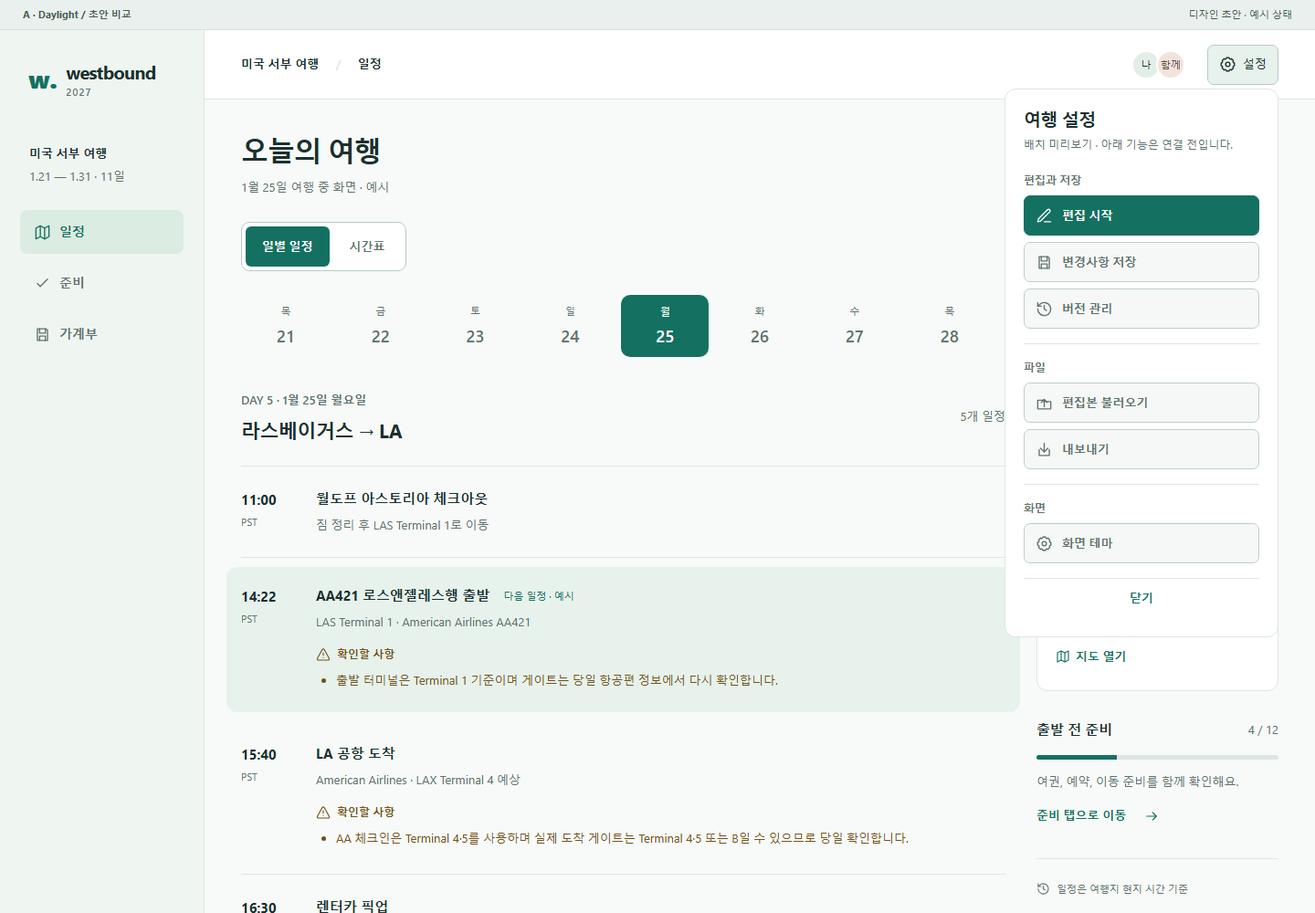
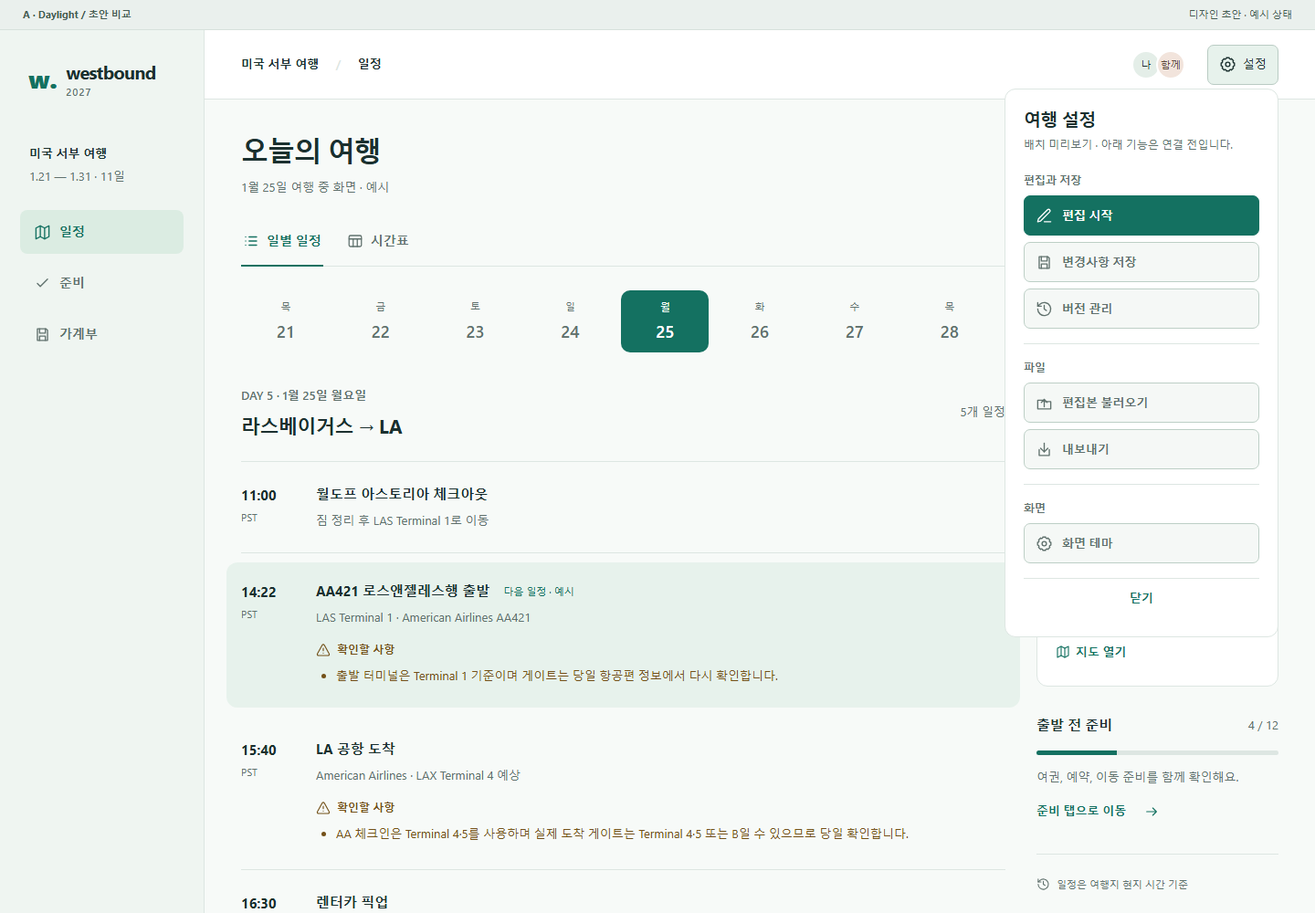
fix: polish Daylight navigation and expense categories

diff --git a/docs/ui-concepts/concepts.js b/docs/ui-concepts/concepts.js
@@ -53,14 +53,15 @@ function prep() {
 const expenses=[{title:'공항에서 숙소 이동',category:'교통',amount:42,date:'1.21'},{title:'도착 첫날 저녁',category:'식비',amount:56,date:'1.21'},{title:'커피 두 잔',category:'식비',amount:12,date:'1.22'}];
 function ledger() {
   const shown=expenses.filter(e=>state.expenseFilter==='all'||e.category===state.expenseFilter);
-  return `<div class="subpage">${heading('가계부', '화면 비교를 위한 가상 지출 3건 · 실제 지출이 아닙니다.')}<div class="ledger-summary"><div><span>예시 지출 합계</span><strong>$110<span>.00</span></strong><p>₩159,500 · 1 USD = 1,450 KRW</p></div><div class="ledger-note"><span>수동 환율</span><strong>1,450 KRW</strong><small>예산 미설정</small></div></div><div class="expense-heading"><h2>지출 내역</h2><label>카테고리 <select id="expense-filter"><option value="all" ${state.expenseFilter==='all'?'selected':''}>전체</option><option ${state.expenseFilter==='식비'?'selected':''}>식비</option><option ${state.expenseFilter==='교통'?'selected':''}>교통</option><option ${state.expenseFilter==='숙박'?'selected':''}>숙박</option></select></label></div><div class="expense-table"><div class="expense-row table-head"><span>날짜</span><span>항목</span><span>카테고리</span><span>금액</span></div>${shown.length?shown.map(e=>`<div class="expense-row"><span>${e.date}</span><strong>${e.title}</strong><span>${e.category}</span><strong>$${e.amount.toFixed(2)}</strong></div>`).join(''):'<div class="empty"><h3>숙박 지출이 없어요</h3><p>다른 카테고리의 예시 내역을 확인해 보세요.</p><button data-reset-filter class="primary-button">전체 내역 보기</button></div>'}</div><p class="footnote">실제 서비스에서는 편집자 확인 후 지출을 추가하고, 저장 시 함께 보는 가계부에 반영합니다.</p></div>`;
+  const rows=shown.map(e=>variant==='a'?daylightExpenseRow(e):`<div class="expense-row"><span>${e.date}</span><strong>${e.title}</strong><span>${e.category}</span><strong>$${e.amount.toFixed(2)}</strong></div>`).join('');
+  return `<div class="subpage">${heading('가계부', '화면 비교를 위한 가상 지출 3건 · 실제 지출이 아닙니다.')}<div class="ledger-summary"><div><span>예시 지출 합계</span><strong>$110<span>.00</span></strong><p>₩159,500 · 1 USD = 1,450 KRW</p></div><div class="ledger-note"><span>수동 환율</span><strong>1,450 KRW</strong><small>예산 미설정</small></div></div><div class="expense-heading"><h2>지출 내역</h2><label>카테고리 <select id="expense-filter"><option value="all" ${state.expenseFilter==='all'?'selected':''}>전체</option><option ${state.expenseFilter==='식비'?'selected':''}>식비</option><option ${state.expenseFilter==='교통'?'selected':''}>교통</option><option ${state.expenseFilter==='숙박'?'selected':''}>숙박</option></select></label></div><div class="expense-table"><div class="expense-row table-head"><span>날짜</span><span>항목</span><span>카테고리</span><span>금액</span></div>${shown.length?rows:'<div class="empty"><h3>숙박 지출이 없어요</h3><p>다른 카테고리의 예시 내역을 확인해 보세요.</p><button data-reset-filter class="primary-button">전체 내역 보기</button></div>'}</div><p class="footnote">실제 서비스에서는 편집자 확인 후 지출을 추가하고, 저장 시 함께 보는 가계부에 반영합니다.</p></div>`;
 }
 function render() {
   const content=state.tab==='prep'?prep():state.tab==='ledger'?ledger():({a:scheduleA,b:scheduleB,c:scheduleC}[variant])();
   const brand=`<a href="${variant}.html" class="brand" aria-label="WESTBOUND 처음 화면"><span class="brand-mark">w.</span><span>westbound<span class="brand-year">2027</span></span></a>`;
   const rail=variant==='a'?`<aside class="side-rail">${brand}<div class="rail-trip"><strong>미국 서부 여행</strong><span>1.21 — 1.31 · 11일</span></div>${nav()}<div class="rail-bottom">${clocks()}<span class="quiet">시각은 예시입니다</span></div></aside>`:'';
   document.getElementById('app').innerHTML=`${notice()}<div class="shell">${rail}<div class="workspace"><header class="app-header">${variant!=='a'?brand:'<span class="header-trip">미국 서부 여행 <span>/</span> '+({schedule:'일정',prep:'준비',ledger:'가계부'}[state.tab])+'</span>'}${variant!=='a'?nav():''}<div class="header-actions"><span class="members" aria-label="여행 참가자 두 명"><i>나</i><i>함께</i></span>${more()}</div></header><main id="main">${content}</main><div class="mobile-nav">${nav('mobile-nav-inner')}</div></div></div><div class="sr-only" role="status" id="feedback"></div>`;
-  document.querySelectorAll('[data-tab]').forEach(button=>button.addEventListener('click',()=>{state.tab=button.dataset.tab;render();document.querySelector('h1')?.setAttribute('tabindex','-1');document.querySelector('h1')?.focus({preventScroll:true});}));
+  document.querySelectorAll('[data-tab]').forEach(button=>button.addEventListener('click',()=>{state.tab=button.dataset.tab;render();document.querySelector('h1')?.setAttribute('tabindex','-1');document.querySelector('h1')?.focus({preventScroll:true});if(variant==='a'&&state.tab==='prep')window.scrollTo({top:0,left:0,behavior:'instant'});}));
   document.querySelectorAll('[data-day]').forEach(button=>button.addEventListener('click',()=>{state.day=Number(button.dataset.day);render();document.querySelector(`[data-day="${state.day}"]`)?.focus({preventScroll:true});}));
   document.querySelectorAll('[data-check]').forEach(input=>input.addEventListener('change',()=>{const key=Number(input.dataset.check);input.checked?state.checked.add(key):state.checked.delete(key);document.getElementById('prep-count').textContent=`${state.checked.size} / ${trip.prep.length}`;document.getElementById('prep-progress').value=state.checked.size;document.getElementById('feedback').textContent='초안에서만 변경되었습니다.';}));
   document.getElementById('expense-filter')?.addEventListener('change',event=>{state.expenseFilter=event.target.value;render();document.getElementById('expense-filter').focus();});

diff --git a/ui-preview/concepts.js b/ui-preview/concepts.js
@@ -53,14 +53,15 @@ function prep() {
 const expenses=[{title:'공항에서 숙소 이동',category:'교통',amount:42,date:'1.21'},{title:'도착 첫날 저녁',category:'식비',amount:56,date:'1.21'},{title:'커피 두 잔',category:'식비',amount:12,date:'1.22'}];
 function ledger() {
   const shown=expenses.filter(e=>state.expenseFilter==='all'||e.category===state.expenseFilter);
-  return `<div class="subpage">${heading('가계부', '화면 비교를 위한 가상 지출 3건 · 실제 지출이 아닙니다.')}<div class="ledger-summary"><div><span>예시 지출 합계</span><strong>$110<span>.00</span></strong><p>₩159,500 · 1 USD = 1,450 KRW</p></div><div class="ledger-note"><span>수동 환율</span><strong>1,450 KRW</strong><small>예산 미설정</small></div></div><div class="expense-heading"><h2>지출 내역</h2><label>카테고리 <select id="expense-filter"><option value="all" ${state.expenseFilter==='all'?'selected':''}>전체</option><option ${state.expenseFilter==='식비'?'selected':''}>식비</option><option ${state.expenseFilter==='교통'?'selected':''}>교통</option><option ${state.expenseFilter==='숙박'?'selected':''}>숙박</option></select></label></div><div class="expense-table"><div class="expense-row table-head"><span>날짜</span><span>항목</span><span>카테고리</span><span>금액</span></div>${shown.length?shown.map(e=>`<div class="expense-row"><span>${e.date}</span><strong>${e.title}</strong><span>${e.category}</span><strong>$${e.amount.toFixed(2)}</strong></div>`).join(''):'<div class="empty"><h3>숙박 지출이 없어요</h3><p>다른 카테고리의 예시 내역을 확인해 보세요.</p><button data-reset-filter class="primary-button">전체 내역 보기</button></div>'}</div><p class="footnote">실제 서비스에서는 편집자 확인 후 지출을 추가하고, 저장 시 함께 보는 가계부에 반영합니다.</p></div>`;
+  const rows=shown.map(e=>variant==='a'?daylightExpenseRow(e):`<div class="expense-row"><span>${e.date}</span><strong>${e.title}</strong><span>${e.category}</span><strong>$${e.amount.toFixed(2)}</strong></div>`).join('');
+  return `<div class="subpage">${heading('가계부', '화면 비교를 위한 가상 지출 3건 · 실제 지출이 아닙니다.')}<div class="ledger-summary"><div><span>예시 지출 합계</span><strong>$110<span>.00</span></strong><p>₩159,500 · 1 USD = 1,450 KRW</p></div><div class="ledger-note"><span>수동 환율</span><strong>1,450 KRW</strong><small>예산 미설정</small></div></div><div class="expense-heading"><h2>지출 내역</h2><label>카테고리 <select id="expense-filter"><option value="all" ${state.expenseFilter==='all'?'selected':''}>전체</option><option ${state.expenseFilter==='식비'?'selected':''}>식비</option><option ${state.expenseFilter==='교통'?'selected':''}>교통</option><option ${state.expenseFilter==='숙박'?'selected':''}>숙박</option></select></label></div><div class="expense-table"><div class="expense-row table-head"><span>날짜</span><span>항목</span><span>카테고리</span><span>금액</span></div>${shown.length?rows:'<div class="empty"><h3>숙박 지출이 없어요</h3><p>다른 카테고리의 예시 내역을 확인해 보세요.</p><button data-reset-filter class="primary-button">전체 내역 보기</button></div>'}</div><p class="footnote">실제 서비스에서는 편집자 확인 후 지출을 추가하고, 저장 시 함께 보는 가계부에 반영합니다.</p></div>`;
 }
 function render() {
   const content=state.tab==='prep'?prep():state.tab==='ledger'?ledger():({a:scheduleA,b:scheduleB,c:scheduleC}[variant])();
   const brand=`<a href="${variant}.html" class="brand" aria-label="WESTBOUND 처음 화면"><span class="brand-mark">w.</span><span>westbound<span class="brand-year">2027</span></span></a>`;
   const rail=variant==='a'?`<aside class="side-rail">${brand}<div class="rail-trip"><strong>미국 서부 여행</strong><span>1.21 — 1.31 · 11일</span></div>${nav()}<div class="rail-bottom">${clocks()}<span class="quiet">시각은 예시입니다</span></div></aside>`:'';
   document.getElementById('app').innerHTML=`${notice()}<div class="shell">${rail}<div class="workspace"><header class="app-header">${variant!=='a'?brand:'<span class="header-trip">미국 서부 여행 <span>/</span> '+({schedule:'일정',prep:'준비',ledger:'가계부'}[state.tab])+'</span>'}${variant!=='a'?nav():''}<div class="header-actions"><span class="members" aria-label="여행 참가자 두 명"><i>나</i><i>함께</i></span>${more()}</div></header><main id="main">${content}</main><div class="mobile-nav">${nav('mobile-nav-inner')}</div></div></div><div class="sr-only" role="status" id="feedback"></div>`;
-  document.querySelectorAll('[data-tab]').forEach(button=>button.addEventListener('click',()=>{state.tab=button.dataset.tab;render();document.querySelector('h1')?.setAttribute('tabindex','-1');document.querySelector('h1')?.focus({preventScroll:true});}));
+  document.querySelectorAll('[data-tab]').forEach(button=>button.addEventListener('click',()=>{state.tab=button.dataset.tab;render();document.querySelector('h1')?.setAttribute('tabindex','-1');document.querySelector('h1')?.focus({preventScroll:true});if(variant==='a'&&state.tab==='prep')window.scrollTo({top:0,left:0,behavior:'instant'});}));
   document.querySelectorAll('[data-day]').forEach(button=>button.addEventListener('click',()=>{state.day=Number(button.dataset.day);render();document.querySelector(`[data-day="${state.day}"]`)?.focus({preventScroll:true});}));
   document.querySelectorAll('[data-check]').forEach(input=>input.addEventListener('change',()=>{const key=Number(input.dataset.check);input.checked?state.checked.add(key):state.checked.delete(key);document.getElementById('prep-count').textContent=`${state.checked.size} / ${trip.prep.length}`;document.getElementById('prep-progress').value=state.checked.size;document.getElementById('feedback').textContent='초안에서만 변경되었습니다.';}));
   document.getElementById('expense-filter')?.addEventListener('change',event=>{state.expenseFilter=event.target.value;render();document.getElementById('expense-filter').focus();});

diff --git a/docs/ui-concepts/daylight.css b/docs/ui-concepts/daylight.css
@@ -16,10 +16,22 @@
 .tool-action:disabled{cursor:not-allowed;color:var(--muted);background:#f5f8f6}
 .tool-action.tool-primary:disabled{background:var(--accent);border-color:var(--accent);color:white}
 .tools-close{min-height:44px;width:100%;margin:16px 0 0!important;border-top:1px solid var(--line);color:var(--accent);font-weight:600}
-.schedule-toolbar{margin-bottom:24px;display:flex;align-items:center;justify-content:space-between}
-.view-switch{display:inline-flex;gap:4px;padding:4px;border:1px solid #b9cbc3;border-radius:9px;background:var(--surface)}
-.view-switch button{min-height:44px;padding:8px 18px;border-radius:6px;font-size:13px;font-weight:600;color:var(--muted)}
-.view-switch button[aria-pressed=true]{background:var(--accent);color:white}
+.schedule-toolbar{margin-bottom:24px;border-bottom:1px solid var(--line)}
+.schedule-modes{display:flex;gap:24px}
+.schedule-modes button{position:relative;display:inline-flex;align-items:center;gap:8px;min-height:48px;padding:8px 2px 14px;font-size:14px;font-weight:600;color:var(--muted)}
+.schedule-modes button[aria-pressed=true]{color:var(--accent)}
+.schedule-modes button[aria-pressed=true]::after{content:"";position:absolute;left:0;right:0;bottom:-1px;height:2px;background:var(--accent)}
+.schedule-modes button:hover{background:transparent;color:var(--accent)}
+.schedule-modes button:focus-visible{outline-offset:2px;border-radius:3px}
+.schedule-modes .icon{width:18px;height:18px}
+.view-switch{display:inline-flex;gap:2px;padding:3px;border-radius:8px;background:#e8efeb;flex:none}
+.view-switch button{min-height:44px;min-width:66px;padding:8px 16px;border:1px solid transparent;border-radius:5px;font-size:13px;font-weight:600;color:#536a60}
+.view-switch button:hover{color:var(--accent);background:#dce8e0}
+.view-switch button[aria-pressed=true]{background:var(--surface);border-color:#c1d2c8;color:var(--ink)}
+.view-switch button:focus-visible{outline-offset:1px}
+.daylight-expense .expense-title{font-size:14px;overflow-wrap:anywhere}
+.daylight-expense .expense-amount{font-size:14px;white-space:nowrap}
+.category-label{display:inline-flex;align-items:center;padding:3px 9px;border-radius:5px;font-size:12px;font-weight:600;line-height:1.6;background:var(--event-bg);color:var(--event-ink)}
 .dt-toolbar{display:flex;align-items:center;justify-content:space-between;gap:20px;margin-bottom:20px}
 .dt-toolbar h2{font-size:20px}
 .dt-toolbar p{font-size:12px;margin-top:6px}
@@ -75,3 +87,4 @@
 @media(max-width:1100px){.dt-all .dt-grid{grid-template-columns:48px repeat(var(--days),minmax(86px,1fr))}}
 @media(max-width:800px){.dt-all .dt-grid{grid-template-columns:48px repeat(var(--days),180px);width:max-content;min-width:100%}.dt-all .dt-event{padding:7px}.dt-all .dt-event strong{font-size:12px}.dt-all .dt-event time{font-size:11px}.dt-scroll-hint{display:flex;gap:8px;justify-content:flex-end;align-items:center;font-size:12px;margin-bottom:10px}.dt-scroll-hint:has(+.dt-single){display:none}.dt-all{max-height:65vh}}
 @media(max-width:640px){.daylight-tools>summary span{display:inline}.daylight-tools .more-menu{right:0}.header-actions{gap:8px}.schedule-toolbar{margin-bottom:20px}.dt-toolbar{align-items:flex-start;flex-wrap:wrap;gap:14px}.dt-toolbar h2{font-size:18px}.event-warnings{font-size:13px}.dt-legend{gap:10px;font-size:11px}#daylight-detail{padding:20px}.detail-heading h2{font-size:19px}}
+@media(max-width:640px){.daylight-expense{grid-template-columns:38px minmax(0,1fr) 70px;gap:6px 10px;align-items:start}.daylight-expense .expense-date{grid-column:1;grid-row:1;padding-top:2px;font-size:12px}.daylight-expense .expense-title{grid-column:2;grid-row:1;line-height:1.6}.daylight-expense>.expense-category{display:block;grid-column:2;grid-row:2}.daylight-expense .expense-amount{grid-column:3;grid-row:1;line-height:1.6}.daylight-expense .category-label{font-size:12px;padding:2px 7px}.dt-toolbar .view-switch{margin-left:auto}.view-switch button{min-width:60px;padding:8px 12px}}

diff --git a/ui-preview/daylight.css b/ui-preview/daylight.css
@@ -16,10 +16,22 @@
 .tool-action:disabled{cursor:not-allowed;color:var(--muted);background:#f5f8f6}
 .tool-action.tool-primary:disabled{background:var(--accent);border-color:var(--accent);color:white}
 .tools-close{min-height:44px;width:100%;margin:16px 0 0!important;border-top:1px solid var(--line);color:var(--accent);font-weight:600}
-.schedule-toolbar{margin-bottom:24px;display:flex;align-items:center;justify-content:space-between}
-.view-switch{display:inline-flex;gap:4px;padding:4px;border:1px solid #b9cbc3;border-radius:9px;background:var(--surface)}
-.view-switch button{min-height:44px;padding:8px 18px;border-radius:6px;font-size:13px;font-weight:600;color:var(--muted)}
-.view-switch button[aria-pressed=true]{background:var(--accent);color:white}
+.schedule-toolbar{margin-bottom:24px;border-bottom:1px solid var(--line)}
+.schedule-modes{display:flex;gap:24px}
+.schedule-modes button{position:relative;display:inline-flex;align-items:center;gap:8px;min-height:48px;padding:8px 2px 14px;font-size:14px;font-weight:600;color:var(--muted)}
+.schedule-modes button[aria-pressed=true]{color:var(--accent)}
+.schedule-modes button[aria-pressed=true]::after{content:"";position:absolute;left:0;right:0;bottom:-1px;height:2px;background:var(--accent)}
+.schedule-modes button:hover{background:transparent;color:var(--accent)}
+.schedule-modes button:focus-visible{outline-offset:2px;border-radius:3px}
+.schedule-modes .icon{width:18px;height:18px}
+.view-switch{display:inline-flex;gap:2px;padding:3px;border-radius:8px;background:#e8efeb;flex:none}
+.view-switch button{min-height:44px;min-width:66px;padding:8px 16px;border:1px solid transparent;border-radius:5px;font-size:13px;font-weight:600;color:#536a60}
+.view-switch button:hover{color:var(--accent);background:#dce8e0}
+.view-switch button[aria-pressed=true]{background:var(--surface);border-color:#c1d2c8;color:var(--ink)}
+.view-switch button:focus-visible{outline-offset:1px}
+.daylight-expense .expense-title{font-size:14px;overflow-wrap:anywhere}
+.daylight-expense .expense-amount{font-size:14px;white-space:nowrap}
+.category-label{display:inline-flex;align-items:center;padding:3px 9px;border-radius:5px;font-size:12px;font-weight:600;line-height:1.6;background:var(--event-bg);color:var(--event-ink)}
 .dt-toolbar{display:flex;align-items:center;justify-content:space-between;gap:20px;margin-bottom:20px}
 .dt-toolbar h2{font-size:20px}
 .dt-toolbar p{font-size:12px;margin-top:6px}
@@ -75,3 +87,4 @@
 @media(max-width:1100px){.dt-all .dt-grid{grid-template-columns:48px repeat(var(--days),minmax(86px,1fr))}}
 @media(max-width:800px){.dt-all .dt-grid{grid-template-columns:48px repeat(var(--days),180px);width:max-content;min-width:100%}.dt-all .dt-event{padding:7px}.dt-all .dt-event strong{font-size:12px}.dt-all .dt-event time{font-size:11px}.dt-scroll-hint{display:flex;gap:8px;justify-content:flex-end;align-items:center;font-size:12px;margin-bottom:10px}.dt-scroll-hint:has(+.dt-single){display:none}.dt-all{max-height:65vh}}
 @media(max-width:640px){.daylight-tools>summary span{display:inline}.daylight-tools .more-menu{right:0}.header-actions{gap:8px}.schedule-toolbar{margin-bottom:20px}.dt-toolbar{align-items:flex-start;flex-wrap:wrap;gap:14px}.dt-toolbar h2{font-size:18px}.event-warnings{font-size:13px}.dt-legend{gap:10px;font-size:11px}#daylight-detail{padding:20px}.detail-heading h2{font-size:19px}}
+@media(max-width:640px){.daylight-expense{grid-template-columns:38px minmax(0,1fr) 70px;gap:6px 10px;align-items:start}.daylight-expense .expense-date{grid-column:1;grid-row:1;padding-top:2px;font-size:12px}.daylight-expense .expense-title{grid-column:2;grid-row:1;line-height:1.6}.daylight-expense>.expense-category{display:block;grid-column:2;grid-row:2}.daylight-expense .expense-amount{grid-column:3;grid-row:1;line-height:1.6}.daylight-expense .category-label{font-size:12px;padding:2px 7px}.dt-toolbar .view-switch{margin-left:auto}.view-switch button{min-width:60px;padding:8px 12px}}

diff --git a/docs/ui-concepts/daylight.js b/docs/ui-concepts/daylight.js
@@ -9,7 +9,15 @@ function daylightTools() {
   return `<details class="more daylight-tools"><summary aria-label="설정">${icon('settings')}<span>설정</span></summary><div class="more-menu"><h2>여행 설정</h2><p id="tools-preview-note">배치 미리보기 · 아래 기능은 연결 전입니다.</p><div class="tool-group" role="group" aria-label="편집과 저장" aria-describedby="tools-preview-note"><h3>편집과 저장</h3>${button('edit',state.tab==='prep'?'목록 편집':state.tab==='ledger'?'가계부 설정':'편집 시작',true)}${button('save','변경사항 저장')}${button('history','버전 관리')}</div><div class="tool-group" role="group" aria-label="파일"><h3>파일</h3>${button('upload','편집본 불러오기')}${button('export','내보내기')}</div><div class="tool-group" role="group" aria-label="화면"><h3>화면</h3>${button('settings','화면 테마')}</div><button class="tools-close" type="button" data-close-tools>닫기</button></div></details>`;
 }
 function daylightViewSwitch() {
-  return `<div class="schedule-toolbar"><div class="view-switch" role="group" aria-label="일정 보기 방식">${[['list','일별 일정'],['timetable','시간표']].map(([key,label])=>`<button data-view="${key}" aria-pressed="${state.view===key}">${label}</button>`).join('')}</div></div>`;
+  return `<div class="schedule-toolbar"><div class="schedule-modes" role="group" aria-label="일정 보기 방식">${[['list','일별 일정'],['timetable','시간표']].map(([key,label])=>`<button data-view="${key}" aria-pressed="${state.view===key}">${daylightViewIcon(key)}<span>${label}</span></button>`).join('')}</div></div>`;
+}
+function daylightViewIcon(name) {
+  const paths=name==='list'?'<path d="M9 6h11M9 12h11M9 18h11M4 6h.01M4 12h.01M4 18h.01"/>':'<rect x="3" y="4" width="18" height="16" rx="2"/><path d="M3 9h18M9 9v11M15 9v11"/>';
+  return `<svg class="icon" viewBox="0 0 24 24" fill="none" stroke="currentColor" stroke-width="1.7" stroke-linecap="round" stroke-linejoin="round" aria-hidden="true">${paths}</svg>`;
+}
+function daylightExpenseRow(expense) {
+  const kind=({'교통':'transit','식비':'food','숙박':'stay'})[expense.category]||'other';
+  return `<div class="expense-row daylight-expense"><span class="expense-date">${esc(expense.date)}</span><strong class="expense-title">${esc(expense.title)}</strong><span class="expense-category"><span class="category-label kind-${kind}">${esc(expense.category)}</span></span><strong class="expense-amount">$${expense.amount.toFixed(2)}</strong></div>`;
 }
 function daylightDays() {
   const days=trip.days.map((day,index)=>{

diff --git a/ui-preview/daylight.js b/ui-preview/daylight.js
@@ -9,7 +9,15 @@ function daylightTools() {
   return `<details class="more daylight-tools"><summary aria-label="설정">${icon('settings')}<span>설정</span></summary><div class="more-menu"><h2>여행 설정</h2><p id="tools-preview-note">배치 미리보기 · 아래 기능은 연결 전입니다.</p><div class="tool-group" role="group" aria-label="편집과 저장" aria-describedby="tools-preview-note"><h3>편집과 저장</h3>${button('edit',state.tab==='prep'?'목록 편집':state.tab==='ledger'?'가계부 설정':'편집 시작',true)}${button('save','변경사항 저장')}${button('history','버전 관리')}</div><div class="tool-group" role="group" aria-label="파일"><h3>파일</h3>${button('upload','편집본 불러오기')}${button('export','내보내기')}</div><div class="tool-group" role="group" aria-label="화면"><h3>화면</h3>${button('settings','화면 테마')}</div><button class="tools-close" type="button" data-close-tools>닫기</button></div></details>`;
 }
 function daylightViewSwitch() {
-  return `<div class="schedule-toolbar"><div class="view-switch" role="group" aria-label="일정 보기 방식">${[['list','일별 일정'],['timetable','시간표']].map(([key,label])=>`<button data-view="${key}" aria-pressed="${state.view===key}">${label}</button>`).join('')}</div></div>`;
+  return `<div class="schedule-toolbar"><div class="schedule-modes" role="group" aria-label="일정 보기 방식">${[['list','일별 일정'],['timetable','시간표']].map(([key,label])=>`<button data-view="${key}" aria-pressed="${state.view===key}">${daylightViewIcon(key)}<span>${label}</span></button>`).join('')}</div></div>`;
+}
+function daylightViewIcon(name) {
+  const paths=name==='list'?'<path d="M9 6h11M9 12h11M9 18h11M4 6h.01M4 12h.01M4 18h.01"/>':'<rect x="3" y="4" width="18" height="16" rx="2"/><path d="M3 9h18M9 9v11M15 9v11"/>';
+  return `<svg class="icon" viewBox="0 0 24 24" fill="none" stroke="currentColor" stroke-width="1.7" stroke-linecap="round" stroke-linejoin="round" aria-hidden="true">${paths}</svg>`;
+}
+function daylightExpenseRow(expense) {
+  const kind=({'교통':'transit','식비':'food','숙박':'stay'})[expense.category]||'other';
+  return `<div class="expense-row daylight-expense"><span class="expense-date">${esc(expense.date)}</span><strong class="expense-title">${esc(expense.title)}</strong><span class="expense-category"><span class="category-label kind-${kind}">${esc(expense.category)}</span></span><strong class="expense-amount">$${expense.amount.toFixed(2)}</strong></div>`;
 }
 function daylightDays() {
   const days=trip.days.map((day,index)=>{

diff --git a/docs/OPERATIONS_KO.md b/docs/OPERATIONS_KO.md
@@ -425,9 +425,12 @@ node docs/ui-concepts/serve.mjs
 - 선택용 초안이며 운영 앱과 저장 데이터를 변경하지 않는다. 시각·체크 상태·지출은 예시다.
 - `prepare-data.mjs`는 기본 설정에서 표시용 일정·목적지 시간대·기존 아이콘을 추출하고, 운영 `index.html`의 순수 시간표 계산 구간을 `timetable-core.js`로 생성한다. 실행은 `node docs/ui-concepts/prepare-data.mjs`이며 생성 파일은 직접 편집하지 않는다. 계정·API 설정은 초안 데이터에 포함하지 않고 실제 서버 공유본을 조회하지 않는다.
 - A안은 준비 탭 이동, 항상 보이는 확인 사항, 그룹별 설정 버튼, 전체·1일 시간표를 검토한다. 설정 버튼은 연결 전 상태로 비활성화되어 있다. 시간표의 데이터는 기본 설정 스냅샷이며 실제 공유본이 아니다. 기존 운영 기능을 제거하거나 저장 정책을 바꾸는 결정은 포함하지 않는다.
+- A안의 준비 탭 진입은 페이지 맨 위로 이동하고 제목에 포커스를 둔다. 가계부 카테고리는 PC에서 별도 열, 모바일에서는 항목 아래에 표시한다. 일정 보기 방식은 밑줄형 전환, 시간표 범위는 별도의 작은 선택 영역으로 구분한다.
+- 일정·준비 화면의 LA 숙소는 날짜에 관계없이 같은 고정 예시를 표시한다. 준비 화면의 `먼저 확인해요`는 수동으로 넣은 캐니언 투어 짐 보관 안내이며, 날짜·우선순위·체크 완료 여부로 선정하지 않는다. 이는 보조 영역 배치 검토용이며 자동 추천 기능이 아니다.
 - `capture.mjs`는 Playwright Chromium으로 초안의 화면을 캡처하고 탐색·필터·체크 동작을 확인한다. 실행은 `node docs/ui-concepts/capture.mjs`이며 A안만 확인할 때는 끝에 `a`를 붙인다. A안은 설정, 시간표 전체·1일, 상세 열기·Esc 닫기·포커스 복원, 날짜 유지, 다른 시간대 분리와 원본 데이터 불변도 확인한다. 기존 [브라우저 검증](#validation)과 동일하게 Playwright 브라우저 설치가 필요하다. 별도 브라우저 캐시가 있으면 `PLAYWRIGHT_BROWSERS_PATH`를 해당 경로로 설정한다.
 - 초안 원본과 검토 캡처는 `docs/` 아래에 두고 Pages 배포에서 제외한다. 온라인 비교 화면은 아래 명령으로 `ui-preview/`에 생성한다. 수정 후 필요한 화면을 다시 캡처하고 생성본을 갱신해 원본과 함께 커밋·push한다. `ui-preview/`에는 브라우저 파일 11개와 비교 이미지 6개만 복사하고, 기존 공용 숙소 이미지는 상대 경로로 참조한다. 서버 API 설정과 도우미 스크립트는 복사하지 않는다. `PRODUCT.md`도 개발용 제품 문서로 배포에서 제외한다.
 - 판단 근거와 당시 확인 범위는 [2026-10-21 검토 기록](archive/2026-10-21-ui-concepts.md)에 있다. 선택 전에는 영구 디자인 시스템으로 취급하지 않는다.
+- A안 후속 변경과 검증은 [10월 21일 개선 기록](archive/2026-10-21-daylight-refinement.md), [10월 22일 사용성 개선 기록](archive/2026-10-22-daylight-usability.md)을 참고한다.
 
 ```sh
 node scripts/build-ui-preview.mjs

diff --git a/docs/archive/2026-10-22-daylight-usability.md b/docs/archive/2026-10-22-daylight-usability.md
@@ -1,0 +1,26 @@
+# A · Daylight 사용성 개선 — 2026-10-22
+
+## 요청과 범위
+
+사용자는 일정·준비 탭의 숙소와 주의 안내의 선정 이유를 질문하고, 준비 탭 진입 시 맨 위로 이동, 가계부 카테고리 식별, 시간표 전환 버튼 개선을 요청했다. 기존 합의대로 A안 초안에만 적용한다. 운영 `index.html`과 공유 데이터, B/C의 화면 동작은 변경하지 않는다.
+
+## 고정 예시 설명
+
+`lodgings()`는 LA 숙소 사진·이름·일정·지도 링크를 하드코딩해 일정과 준비 화면에서 재사용한다. 숙소 정보를 보조 영역에서 빠르게 확인하는 배치를 보여주려는 예시로, 선택 날짜에 반응하지 않는다. 따라서 라스베이거스 날짜에도 LA 숙소가 표시된다.
+
+`prep()`의 `먼저 확인해요`도 캐니언 투어의 캐리어·호텔 짐 보관 주의를 수동으로 넣은 예시다. 준비 완료 상태나 날짜를 통한 우선순위 계산은 없다. 이번 요청에서는 두 블록의 선정 이유를 설명했으며, 자동 선정 기능을 추가하거나 여행 내용을 변경하지 않았다. 현재 초안의 한계는 [운영 안내서](../OPERATIONS_KO.md#ui-concepts)에 명시했다.
+
+## 변경
+
+- 준비 목록 이동 버튼과 준비 메뉴 모두 페이지 맨 위로 이동하고 제목에 포커스를 둔다. 이미 준비 탭에서 아래로 읽은 뒤 준비 메뉴를 다시 눌러도 맨 위로 이동한다. 체크 상태는 유지한다.
+- 가계부는 카테고리명을 색상 라벨로 표시한다. 모바일에서 숨기던 카테고리를 항목명 아래에 배치하고 항목·금액의 글자 크기를 높였다. PC는 기존 별도 열을 유지한다. 색상에 의존하지 않고 텍스트로도 구분할 수 있다.
+- `일별 일정 / 시간표`는 아이콘과 밑줄로 선택 상태를 표현한다. `1일 / 전체`는 옅은 바탕의 작은 선택 영역으로 분리했다. 보기 방식과 범위가 같은 강도의 버튼으로 반복되던 문제를 줄였으며, 기존 선택 상태·날짜 유지·키보드 동작은 보존했다.
+
+## 확인
+
+- `node docs/ui-concepts/capture.mjs`: Chromium에서 A/B/C의 PC·모바일 탐색·체크·필터·날짜 이동 통과.
+- 준비 진입·재선택의 스크롤 0, 제목 포커스, 체크 상태 보존, 카테고리 표시·필터와 키보드 시간표 진입 검증을 추가했다.
+- 360·390·768·1280·1440px 가로 넘침 검사 통과. A 가계부의 카테고리 가시성도 확인했다.
+- PC·모바일 가계부와 시간표 캡처를 직접 검토했다. Impeccable 기계 검사 결과는 빈 목록이었다.
+
+현재 운영 기능의 사용법과 구현은 바뀌지 않아 사용자 안내서와 기술 설명서는 유지한다. 캡처·생성본·배포 절차는 [운영 안내서](../OPERATIONS_KO.md#ui-concepts)를 따른다.

diff --git a/README.md b/README.md
@@ -17,7 +17,7 @@
 | 2026-10-19 테스트 실행 결과와 보강 제안 | [2026-10-19 테스트 검토](docs/archive/2026-10-19-test-review.md) |
 | 에이전트 작업 규칙 확인 | [AGENTS.md](AGENTS.md) |
 | UI 개편 후보 3안 비교 | [온라인 비교 화면](https://pca01008.github.io/us-west-2027-trip/ui-preview/) · [로컬 원본](docs/ui-concepts/index.html) · [검토 기록](docs/archive/2026-10-21-ui-concepts.md) · [실행·배포 방법](docs/OPERATIONS_KO.md#ui-concepts) |
-| 선택한 A안(Daylight) 개선 검토 | [개선 초안](docs/ui-concepts/a.html) · [기존 인계](docs/archive/2026-10-21-daylight-handoff.md) · [개선 기록](docs/archive/2026-10-21-daylight-refinement.md) |
+| 선택한 A안(Daylight) 개선 검토 | [개선 초안](docs/ui-concepts/a.html) · [기존 인계](docs/archive/2026-10-21-daylight-handoff.md) · [1차 개선](docs/archive/2026-10-21-daylight-refinement.md) · [사용성 개선](docs/archive/2026-10-22-daylight-usability.md) |
 
 사용법은 사용자 안내서, 구현 원리는 기술 설명서, 실행 절차는 운영 안내서에서 관리합니다.
 이력 문서는 해당 날짜의 관측 기록이며 현재 운영 상태를 보증하지 않습니다.
